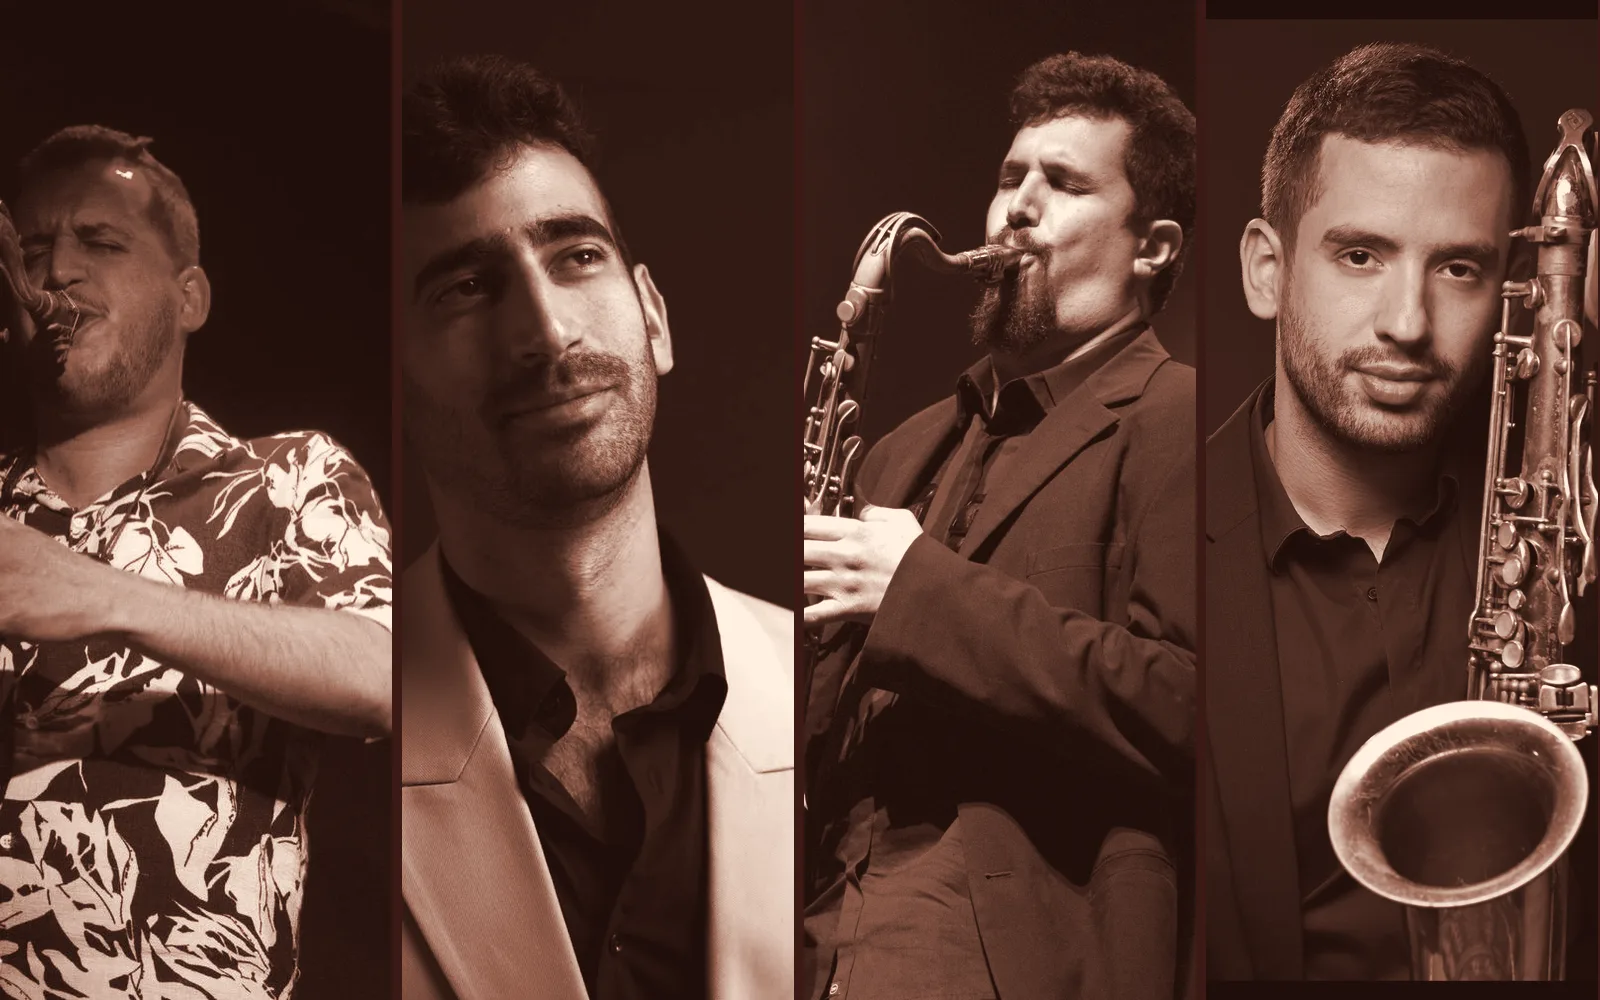
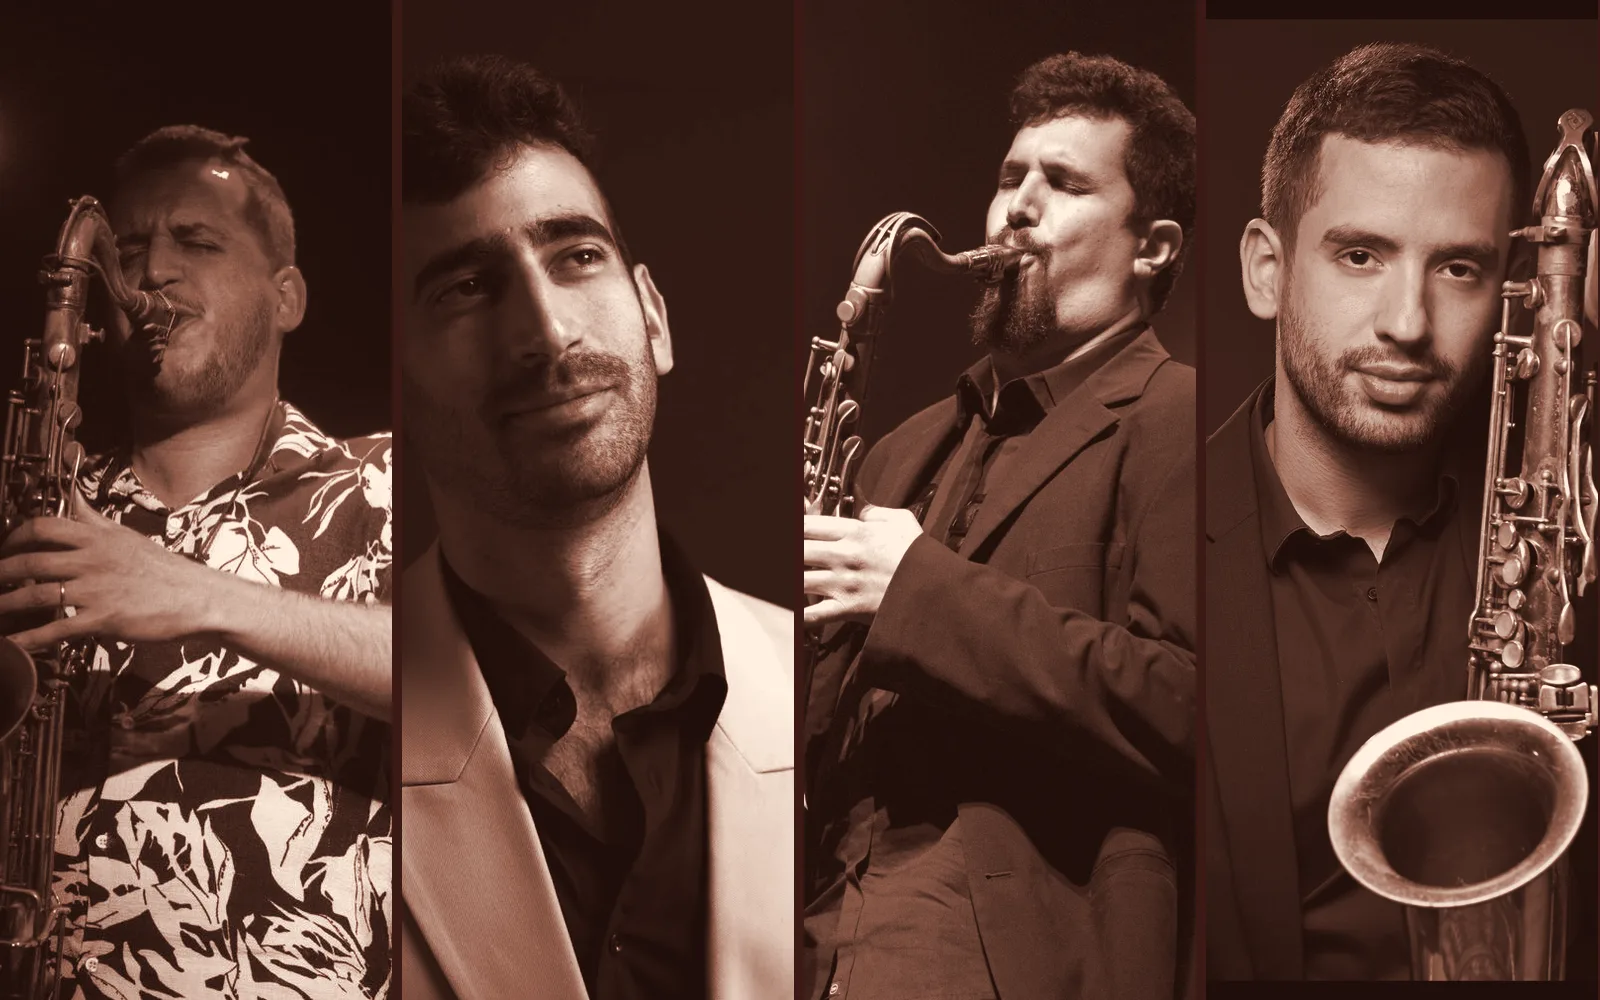
Tenors photo: Yuval Drabkin moved right; his photo credit (Lior Doron)

Changed region(s): [[0.0, 0.124, 0.25, 1.0]]

diff --git a/preview-uz9hsq/assets/data.js b/preview-uz9hsq/assets/data.js
@@ -168,7 +168,7 @@ const SHOWS = [
     about_en: ["A special original production for the festival: a rare, one-off meeting of four of the most prominent tenor saxophonists in Israeli jazz on one stage, celebrating the iconic instrument and its many voices. Improvisation and energy at the heart of it all – the freshest thing happening on the scene right now.", "Yuval Drabkin is a graduate of the joint programme of the Stricker Conservatory and The New School and of the Jerusalem Academy of Music, and has played with Avishai Cohen, Eli Degibri, Omer Avital, Yoni Rechter, Shalom Hanoch and Shem Tov Levi. In recent years he has toured with Avishai Cohen at the world’s leading festivals and clubs, among them the Montreal Jazz Festival, Marciac, the Blue Note and Ronnie Scott’s, and he runs the weekly jam session at the Ammama club.", "Asaf Haris, a graduate of The New School in New York and winner of the John Coltrane Award, has released four albums as leader and co-leader, covered by BBC Music Magazine and Jazzwise and played on the UK’s Jazz FM. He has performed at Birdland in New York, the Bimhuis in Amsterdam, the Bern Jazz Festival and the Red Sea Jazz Festival, and has collaborated with Hal Galper, Eli Degibri, Ester Rada and Guy Mazig. Alongside his work on stage he heads the jazz department at the Tel Aviv-Yafo Music Centre.", "Yehonatan Cohen, saxophonist and flautist, grew up in Raanana and began his musical path at the city’s music centre. A graduate of the joint programme of the Israel Conservatory of Music and The New School, with a master’s degree from the Jerusalem Academy of Music, he has released three albums of original compositions, two of them with pianist Katia Toubol, has performed and recorded with Yoni Rechter, Shalom Hanoch, Matti Caspi, Avishai Cohen, Lew Soloff and Dayna Stephens, and currently plays in the production of “The Sixteenth Lamb”.", "Alexander Levin, a graduate of Thelma Yellin and Rimon’s outstanding-students programme and winner of a full scholarship to Berklee, tours the world with the Omer Avital Quintet, with whom he has recorded three albums. He has played with bassist Avishai Cohen and trumpeter Avishai Cohen, Yemen Blues, David Broza, Yoni Rechter and Shai Maestro, and has performed at the Blue Note, Lincoln Center and Smalls in New York and at the Marciac Jazz Festival. In 2022 he released his debut album, Hand Made."],
     cast: ["יובל דרבקין, אסף חריס, יהונתן כהן, אלכסנדר לוין – סקסופון טנור · גיא מוסקוביץ' – פסנתר · אורן הרדי – בס · אוריה מדר – תופים"],
     cast_en: ["Yuval Drabkin, Asaf Haris, Yehonatan Cohen, Alexander Levin – tenor saxophone · Guy Moskovich – piano · Oren Hardy – bass · Uriya Madar – drums"],
-    img: "2026-tenors-4.jpg", pos: "50% 30%", credit: "אסף: אליה דוד · יהונתן: פטר ויט · אלכסנדר: יוסי צבקר", credit_en: "Asaf: Elia David · Yehonatan: Peter Vit · Alexander: Yossi Zwecker" , slug: "event/32061" },
+    img: "2026-tenors-4.jpg", pos: "50% 30%", credit: "יובל: ליאור דורון · אסף: אליה דוד · יהונתן: פטר ויט · אלכסנדר: יוסי צבקר", credit_en: "Yuval: Lior Doron · Asaf: Elia David · Yehonatan: Peter Vit · Alexander: Yossi Zwecker" , slug: "event/32061" },
   { id: "avishai", day: "fri", time: "19:30", dur: 60, featured: true, lead: true,
     venue: "המועדון הקאמרי", venue_en: "The Chamber Club",
     title: "אנסמבל יונתן אבישי", title_en: "Yonatan Avishai Ensemble",

diff --git a/preview-uz9hsq/en/festival-2025.html b/preview-uz9hsq/en/festival-2025.html
@@ -23,7 +23,7 @@
 <link href="https://fonts.googleapis.com/css2?family=Rubik:wght@400;500;700;900&display=swap" rel="stylesheet">
 <link rel="preload" href="/preview-uz9hsq/assets/fonts/xenon-ruckus.woff2" as="font" type="font/woff2" crossorigin>
 
-<link rel="stylesheet" href="/preview-uz9hsq/assets/site.css?v=f36642603b">
+<link rel="stylesheet" href="/preview-uz9hsq/assets/site.css?v=11f03ebf8e">
 <script>document.documentElement.classList.add('js')</script>
 </head>
 <body>
@@ -52,8 +52,8 @@
 
 </main>
 
-<script src="/preview-uz9hsq/assets/data.js?v=f36642603b"></script>
-<script src="/preview-uz9hsq/assets/site.js?v=f36642603b"></script>
+<script src="/preview-uz9hsq/assets/data.js?v=11f03ebf8e"></script>
+<script src="/preview-uz9hsq/assets/site.js?v=11f03ebf8e"></script>
 <script>
   document.getElementById('lineup2025').innerHTML = DAYS_2025.map(d => `
     <div class="daycol">
@@ -62,7 +62,7 @@
         <div class="slot"><time>${s.time}</time><div><div class="t">${tr(s, 'title')}</div><div class="v">${tr(s, 'venue')}</div></div></div>`).join('')}
     </div>`).join('');
 </script>
-<script src="/preview-uz9hsq/assets/gallery-2025.js?v=f36642603b"></script>
+<script src="/preview-uz9hsq/assets/gallery-2025.js?v=11f03ebf8e"></script>
 <script>renderGallery(document.getElementById('gal2025'), window.GALLERY_2025, 'gallery-2025');</script>
 </body>
 </html>

diff --git a/preview-uz9hsq/festival-2025.html b/preview-uz9hsq/festival-2025.html
@@ -23,7 +23,7 @@
 <link href="https://fonts.googleapis.com/css2?family=Rubik:wght@400;500;700;900&display=swap" rel="stylesheet">
 <link rel="preload" href="/preview-uz9hsq/assets/fonts/xenon-ruckus.woff2" as="font" type="font/woff2" crossorigin>
 
-<link rel="stylesheet" href="/preview-uz9hsq/assets/site.css?v=f36642603b">
+<link rel="stylesheet" href="/preview-uz9hsq/assets/site.css?v=11f03ebf8e">
 <script>document.documentElement.classList.add('js')</script>
 </head>
 <body>
@@ -52,8 +52,8 @@
 
 </main>
 
-<script src="/preview-uz9hsq/assets/data.js?v=f36642603b"></script>
-<script src="/preview-uz9hsq/assets/site.js?v=f36642603b"></script>
+<script src="/preview-uz9hsq/assets/data.js?v=11f03ebf8e"></script>
+<script src="/preview-uz9hsq/assets/site.js?v=11f03ebf8e"></script>
 <script>
   document.getElementById('lineup2025').innerHTML = DAYS_2025.map(d => `
     <div class="daycol">
@@ -62,7 +62,7 @@
         <div class="slot"><time>${s.time}</time><div><div class="t">${tr(s, 'title')}</div><div class="v">${tr(s, 'venue')}</div></div></div>`).join('')}
     </div>`).join('');
 </script>
-<script src="/preview-uz9hsq/assets/gallery-2025.js?v=f36642603b"></script>
+<script src="/preview-uz9hsq/assets/gallery-2025.js?v=11f03ebf8e"></script>
 <script>renderGallery(document.getElementById('gal2025'), window.GALLERY_2025, 'gallery-2025');</script>
 </body>
 </html>

diff --git a/preview-uz9hsq/en/media.html b/preview-uz9hsq/en/media.html
@@ -23,7 +23,7 @@
 <link href="https://fonts.googleapis.com/css2?family=Rubik:wght@400;500;700;900&display=swap" rel="stylesheet">
 <link rel="preload" href="/preview-uz9hsq/assets/fonts/xenon-ruckus.woff2" as="font" type="font/woff2" crossorigin>
 
-<link rel="stylesheet" href="/preview-uz9hsq/assets/site.css?v=f36642603b">
+<link rel="stylesheet" href="/preview-uz9hsq/assets/site.css?v=11f03ebf8e">
 <script>document.documentElement.classList.add('js')</script>
 </head>
 <body>
@@ -51,8 +51,8 @@
 
 </main>
 
-<script src="/preview-uz9hsq/assets/data.js?v=f36642603b"></script>
-<script src="/preview-uz9hsq/assets/site.js?v=f36642603b"></script>
+<script src="/preview-uz9hsq/assets/data.js?v=11f03ebf8e"></script>
+<script src="/preview-uz9hsq/assets/site.js?v=11f03ebf8e"></script>
 <script>
   document.getElementById('pressMail').href = `mailto:${SITE.email}?subject=${encodeURIComponent(L('בקשת אקרדיטציה – פסטיבל הג׳אז רעננה', 'Press accreditation – Raanana Jazz Festival'))}`;
   document.getElementById('pressPhotos').innerHTML = SHOWS.concat(SHOWS_2025).filter(s => s.img).filter((s, i, a) => a.findIndex(x => x.img === s.img) === i).map(s => `

diff --git a/preview-uz9hsq/media.html b/preview-uz9hsq/media.html
@@ -23,7 +23,7 @@
 <link href="https://fonts.googleapis.com/css2?family=Rubik:wght@400;500;700;900&display=swap" rel="stylesheet">
 <link rel="preload" href="/preview-uz9hsq/assets/fonts/xenon-ruckus.woff2" as="font" type="font/woff2" crossorigin>
 
-<link rel="stylesheet" href="/preview-uz9hsq/assets/site.css?v=f36642603b">
+<link rel="stylesheet" href="/preview-uz9hsq/assets/site.css?v=11f03ebf8e">
 <script>document.documentElement.classList.add('js')</script>
 </head>
 <body>
@@ -51,8 +51,8 @@
 
 </main>
 
-<script src="/preview-uz9hsq/assets/data.js?v=f36642603b"></script>
-<script src="/preview-uz9hsq/assets/site.js?v=f36642603b"></script>
+<script src="/preview-uz9hsq/assets/data.js?v=11f03ebf8e"></script>
+<script src="/preview-uz9hsq/assets/site.js?v=11f03ebf8e"></script>
 <script>
   document.getElementById('pressMail').href = `mailto:${SITE.email}?subject=${encodeURIComponent(L('בקשת אקרדיטציה – פסטיבל הג׳אז רעננה', 'Press accreditation – Raanana Jazz Festival'))}`;
   document.getElementById('pressPhotos').innerHTML = SHOWS.concat(SHOWS_2025).filter(s => s.img).filter((s, i, a) => a.findIndex(x => x.img === s.img) === i).map(s => `

diff --git a/preview-uz9hsq/en/lineup.html b/preview-uz9hsq/en/lineup.html
@@ -23,7 +23,7 @@
 <link href="https://fonts.googleapis.com/css2?family=Rubik:wght@400;500;700;900&display=swap" rel="stylesheet">
 <link rel="preload" href="/preview-uz9hsq/assets/fonts/xenon-ruckus.woff2" as="font" type="font/woff2" crossorigin>
 
-<link rel="stylesheet" href="/preview-uz9hsq/assets/site.css?v=f36642603b">
+<link rel="stylesheet" href="/preview-uz9hsq/assets/site.css?v=11f03ebf8e">
 <script>document.documentElement.classList.add('js')</script>
 </head>
 <body>
@@ -63,8 +63,8 @@
 
 </main>
 
-<script src="/preview-uz9hsq/assets/data.js?v=f36642603b"></script>
-<script src="/preview-uz9hsq/assets/site.js?v=f36642603b"></script>
+<script src="/preview-uz9hsq/assets/data.js?v=11f03ebf8e"></script>
+<script src="/preview-uz9hsq/assets/site.js?v=11f03ebf8e"></script>
 <script>
   document.querySelectorAll('.daytabs button').forEach(b => b.addEventListener('click', () => {
     document.querySelectorAll('.daytabs button').forEach(x => x.classList.toggle('on', x === b));

diff --git a/preview-uz9hsq/lineup.html b/preview-uz9hsq/lineup.html
@@ -23,7 +23,7 @@
 <link href="https://fonts.googleapis.com/css2?family=Rubik:wght@400;500;700;900&display=swap" rel="stylesheet">
 <link rel="preload" href="/preview-uz9hsq/assets/fonts/xenon-ruckus.woff2" as="font" type="font/woff2" crossorigin>
 
-<link rel="stylesheet" href="/preview-uz9hsq/assets/site.css?v=f36642603b">
+<link rel="stylesheet" href="/preview-uz9hsq/assets/site.css?v=11f03ebf8e">
 <script>document.documentElement.classList.add('js')</script>
 </head>
 <body>
@@ -63,8 +63,8 @@
 
 </main>
 
-<script src="/preview-uz9hsq/assets/data.js?v=f36642603b"></script>
-<script src="/preview-uz9hsq/assets/site.js?v=f36642603b"></script>
+<script src="/preview-uz9hsq/assets/data.js?v=11f03ebf8e"></script>
+<script src="/preview-uz9hsq/assets/site.js?v=11f03ebf8e"></script>
 <script>
   document.querySelectorAll('.daytabs button').forEach(b => b.addEventListener('click', () => {
     document.querySelectorAll('.daytabs button').forEach(x => x.classList.toggle('on', x === b));

diff --git a/preview-uz9hsq/en/tickets.html b/preview-uz9hsq/en/tickets.html
@@ -23,7 +23,7 @@
 <link href="https://fonts.googleapis.com/css2?family=Rubik:wght@400;500;700;900&display=swap" rel="stylesheet">
 <link rel="preload" href="/preview-uz9hsq/assets/fonts/xenon-ruckus.woff2" as="font" type="font/woff2" crossorigin>
 
-<link rel="stylesheet" href="/preview-uz9hsq/assets/site.css?v=f36642603b">
+<link rel="stylesheet" href="/preview-uz9hsq/assets/site.css?v=11f03ebf8e">
 <script>document.documentElement.classList.add('js')</script>
 </head>
 <body>
@@ -43,8 +43,8 @@
 
 </main>
 
-<script src="/preview-uz9hsq/assets/data.js?v=f36642603b"></script>
-<script src="/preview-uz9hsq/assets/site.js?v=f36642603b"></script>
+<script src="/preview-uz9hsq/assets/data.js?v=11f03ebf8e"></script>
+<script src="/preview-uz9hsq/assets/site.js?v=11f03ebf8e"></script>
 <script>
   renderShowList(document.getElementById('freeShows'));
   document.querySelectorAll('#freeShows .showrow').forEach((row, i) => { if (!SHOWS[i].free && !SHOWS[i].kids) row.remove(); });

diff --git a/preview-uz9hsq/tickets.html b/preview-uz9hsq/tickets.html
@@ -23,7 +23,7 @@
 <link href="https://fonts.googleapis.com/css2?family=Rubik:wght@400;500;700;900&display=swap" rel="stylesheet">
 <link rel="preload" href="/preview-uz9hsq/assets/fonts/xenon-ruckus.woff2" as="font" type="font/woff2" crossorigin>
 
-<link rel="stylesheet" href="/preview-uz9hsq/assets/site.css?v=f36642603b">
+<link rel="stylesheet" href="/preview-uz9hsq/assets/site.css?v=11f03ebf8e">
 <script>document.documentElement.classList.add('js')</script>
 </head>
 <body>
@@ -43,8 +43,8 @@
 
 </main>
 
-<script src="/preview-uz9hsq/assets/data.js?v=f36642603b"></script>
-<script src="/preview-uz9hsq/assets/site.js?v=f36642603b"></script>
+<script src="/preview-uz9hsq/assets/data.js?v=11f03ebf8e"></script>
+<script src="/preview-uz9hsq/assets/site.js?v=11f03ebf8e"></script>
 <script>
   renderShowList(document.getElementById('freeShows'));
   document.querySelectorAll('#freeShows .showrow').forEach((row, i) => { if (!SHOWS[i].free && !SHOWS[i].kids) row.remove(); });

diff --git a/preview-uz9hsq/accessibility.html b/preview-uz9hsq/accessibility.html
@@ -23,7 +23,7 @@
 <link href="https://fonts.googleapis.com/css2?family=Rubik:wght@400;500;700;900&display=swap" rel="stylesheet">
 <link rel="preload" href="/preview-uz9hsq/assets/fonts/xenon-ruckus.woff2" as="font" type="font/woff2" crossorigin>
 
-<link rel="stylesheet" href="/preview-uz9hsq/assets/site.css?v=f36642603b">
+<link rel="stylesheet" href="/preview-uz9hsq/assets/site.css?v=11f03ebf8e">
 <script>document.documentElement.classList.add('js')</script>
 </head>
 <body>
@@ -62,8 +62,8 @@
 
 </main>
 
-<script src="/preview-uz9hsq/assets/data.js?v=f36642603b"></script>
-<script src="/preview-uz9hsq/assets/site.js?v=f36642603b"></script>
+<script src="/preview-uz9hsq/assets/data.js?v=11f03ebf8e"></script>
+<script src="/preview-uz9hsq/assets/site.js?v=11f03ebf8e"></script>
 <script>
   const c = SITE.a11yContact || {};
   const lines = [c.name, c.phone, c.email || SITE.email].filter(Boolean);

diff --git a/preview-uz9hsq/en/accessibility.html b/preview-uz9hsq/en/accessibility.html
@@ -23,7 +23,7 @@
 <link href="https://fonts.googleapis.com/css2?family=Rubik:wght@400;500;700;900&display=swap" rel="stylesheet">
 <link rel="preload" href="/preview-uz9hsq/assets/fonts/xenon-ruckus.woff2" as="font" type="font/woff2" crossorigin>
 
-<link rel="stylesheet" href="/preview-uz9hsq/assets/site.css?v=f36642603b">
+<link rel="stylesheet" href="/preview-uz9hsq/assets/site.css?v=11f03ebf8e">
 <script>document.documentElement.classList.add('js')</script>
 </head>
 <body>
@@ -62,8 +62,8 @@
 
 </main>
 
-<script src="/preview-uz9hsq/assets/data.js?v=f36642603b"></script>
-<script src="/preview-uz9hsq/assets/site.js?v=f36642603b"></script>
+<script src="/preview-uz9hsq/assets/data.js?v=11f03ebf8e"></script>
+<script src="/preview-uz9hsq/assets/site.js?v=11f03ebf8e"></script>
 <script>
   const c = SITE.a11yContact || {};
   const lines = [c.name, c.phone, c.email || SITE.email].filter(Boolean);

diff --git a/preview-uz9hsq/en/venue.html b/preview-uz9hsq/en/venue.html
@@ -23,7 +23,7 @@
 <link href="https://fonts.googleapis.com/css2?family=Rubik:wght@400;500;700;900&display=swap" rel="stylesheet">
 <link rel="preload" href="/preview-uz9hsq/assets/fonts/xenon-ruckus.woff2" as="font" type="font/woff2" crossorigin>
 
-<link rel="stylesheet" href="/preview-uz9hsq/assets/site.css?v=f36642603b">
+<link rel="stylesheet" href="/preview-uz9hsq/assets/site.css?v=11f03ebf8e">
 <script>document.documentElement.classList.add('js')</script>
 </head>
 <body>
@@ -58,8 +58,8 @@
 
 </main>
 
-<script src="/preview-uz9hsq/assets/data.js?v=f36642603b"></script>
-<script src="/preview-uz9hsq/assets/site.js?v=f36642603b"></script>
+<script src="/preview-uz9hsq/assets/data.js?v=11f03ebf8e"></script>
+<script src="/preview-uz9hsq/assets/site.js?v=11f03ebf8e"></script>
 <script>
   document.getElementById('venues').innerHTML = VENUES.map(v => `
     <div class="venue-card">
